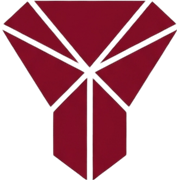
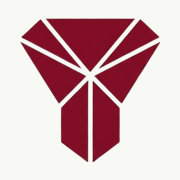
Fix link previews: point og:image at the canonical www host
og:image resolved to https://yaquti.com/og-image.png via metadataBase, but
the apex 308-redirects to www. Verified against production:

  https://yaquti.com/og-image.png     -> 308  text/plain  15 bytes
  https://www.yaquti.com/og-image.png -> 200  image/png   42970 bytes

WhatsApp does not follow redirects when fetching og:image, so it received
the redirect body instead of an image and dropped the preview picture,
falling back to the favicon. That fallback is why a favicon appeared in
previews at all. Changing the favicon removed the fallback and left the
preview empty, which surfaced a problem that predates these icon changes.

metadataBase and openGraph.url now use https://www.yaquti.com, so every
og and twitter image URL resolves 200 with no redirect.

Also trims two regressions introduced with the seal icon:

- favicon.ico goes from 74941 to 13427 bytes. A 256x256 frame had been
  added that the original never carried, accounting for 61KB of the file.
  Frames are back to 16/24/32/48/64, matching the original range. Still
  transparent.
- apple-icon.png and the 192/512 PNGs are now opaque, ruby seal on cream,
  as the mark appears on the product label. iOS composites transparent
  touch icons onto black, and preview cards render them on unpredictable
  grounds. The browser tab favicon stays transparent.

Verify after deploy with the Facebook sharing debugger and Scrape Again;
WhatsApp shares that crawler cache. Share the www form of the URL.

Changed region(s): [[0.0, 0.0, 1.0, 1.0]]

diff --git a/app/layout.tsx b/app/layout.tsx
@@ -22,7 +22,10 @@ const SOCIAL_DESCRIPTION =
   "YAQUTI is a premium supplement brand built on radical transparency: clinically researched doses, single-origin botanicals, per-lot third-party testing, no proprietary blends, cGMP manufacturing, and a 60-day money-back guarantee.";
 
 export const metadata: Metadata = {
-  metadataBase: new URL("https://yaquti.com"),
+  // Must be the canonical www host. The apex 308-redirects to www, and link
+  // scrapers (WhatsApp in particular) do not follow redirects when fetching
+  // og:image — they get the 308 body and drop the preview image entirely.
+  metadataBase: new URL("https://www.yaquti.com"),
   title: "YAQUTI — Be Rare.",
   description:
     "Science-backed nutrition for those who choose quality over compromise.",
@@ -36,7 +39,7 @@ export const metadata: Metadata = {
   openGraph: {
     title: SOCIAL_TITLE,
     description: SOCIAL_DESCRIPTION,
-    url: "https://yaquti.com",
+    url: "https://www.yaquti.com",
     siteName: "YAQUTI",
     images: [
       {
